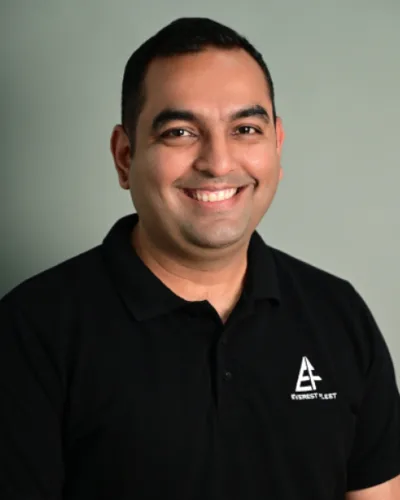
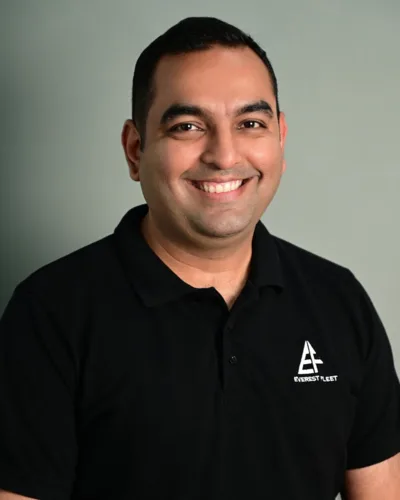
feat: plan hero figures stay on one line (11 Months* onwards, ₹35,000/m); Own Now drops Non-refundable; Sunny Sapra's photo
- Drive To Own: Ownership reads 11 Months* with a small "onwards", as the deposit does
- Drive To Earn: Earning Potential reads ₹35,000/m
- Hero figure boxes grow to fit their figure on desktop, so none wraps
- Own Now's tags no longer carry Non-refundable
- Saved content with the earlier wording takes the new one through the normalizer; CONTENT_VERSION 14
- Investors: Sunny Sapra's photo, and a sharper copy of Sidarth Vohra's

Claude-Session: https://claude.ai/code/session_016Z3Yd4DoL7w6UJZSQyKBwd

diff --git a/src/lib/content.ts b/src/lib/content.ts
@@ -233,7 +233,7 @@ export type SiteContent = {
 };
 
 /** Bump when SiteContent changes shape, so no deployment reads a cache written by an older one. */
-export const CONTENT_VERSION = "13";
+export const CONTENT_VERSION = "14";
 
 export const placeholder = (label: string, alt = ""): ImageSlot => ({ label, url: "", alt });
 
@@ -322,7 +322,7 @@ const PLAN_SEED: Plan[] = [
       heroImage: { label: "Own Now, hero photo", url: "/figma/own-hero.webp", alt: "Everest driver holding up the keys to his car" },
       heroImagePhone: { label: "Own Now, phone hero photo", url: "/figma/plans/hero-phone-own-now.webp", alt: "An Everest driver holding up the keys to his car" },
       term: { label: "Tenure", value: "12 Months" },
-      tags: ["Ownership plan", "Pay upfront", "Non-refundable"],
+      tags: ["Ownership plan", "Pay upfront"],
       whyTag: "Benefits of this plan",
       whyTitle: "Everything a driver needs, in one plan",
       whySubtitle: "",
@@ -380,7 +380,7 @@ const PLAN_SEED: Plan[] = [
       highlight: "a Low Deposit",
       heroImage: { label: "Drive to Own, hero photo", url: "/figma/hero-drive-to-own.webp", alt: "A hand holding out car keys in front of a row of Everest cars" },
       heroImagePhone: { label: "Drive to Own, phone hero photo", url: "/figma/plans/hero-phone-drive-to-own.webp", alt: "A hand holding out car keys beside a white car" },
-      term: { label: "Ownership", value: "11 Months onwards" },
+      term: { label: "Ownership", value: "11 Months* onwards" },
       tags: ["Ownership plan", "Low deposit", "Refundable"],
       whyTag: "Benefits of this plan",
       whyTitle: "Why Drivers Choose Drive To Own",
@@ -434,7 +434,7 @@ const PLAN_SEED: Plan[] = [
       highlight: "Owning Anything",
       heroImage: { label: "Drive to Earn, hero photo", url: "/figma/hero-drive-to-earn.webp", alt: "A driver sitting in the open door of his Everest car" },
       heroImagePhone: { label: "Drive to Earn, phone hero photo", url: "/figma/plans/hero-phone-drive-to-earn.webp", alt: "A driver sitting in the open door of his Everest car" },
-      term: { label: "Earning Potential", value: "₹35,000/month" },
+      term: { label: "Earning Potential", value: "₹35,000/m" },
       tags: ["Leasing plan", "Low deposit", "Refundable"],
       whyTag: "Benefits of this plan",
       whyTitle: "Why Drivers Choose Drive To Earn",

diff --git a/src/lib/content-schema.ts b/src/lib/content-schema.ts
@@ -175,9 +175,14 @@ function blankCar(id: string): Car {
 
 /** Hero figures the seed used to carry, keyed "label|value". Saved content still holds them, so each takes its new wording. */
 const RETERMED: Record<string, Row> = {
-  "Liability|Zero": { label: "Earning Potential", value: "₹35,000/month" },
-  "Ownership|24 Months": { label: "Ownership", value: "11 Months onwards" },
+  "Liability|Zero": { label: "Earning Potential", value: "₹35,000/m" },
+  "Earning Potential|₹35,000/month": { label: "Earning Potential", value: "₹35,000/m" },
+  "Ownership|24 Months": { label: "Ownership", value: "11 Months* onwards" },
+  "Ownership|11 Months onwards": { label: "Ownership", value: "11 Months* onwards" },
 };
+
+/** Hero tags the seed used to carry and the page no longer shows. */
+const DROPPED_TAGS = new Set(["Non-refundable"]);
 
 function term(v: unknown): Row {
   const t = obj(v);
@@ -195,7 +200,7 @@ function page(v: unknown, base: PlanPage): PlanPage {
     heroImage: image(o.heroImage, base.heroImage),
     heroImagePhone: image(o.heroImagePhone, base.heroImagePhone),
     term: "term" in o ? term(o.term) : { ...base.term },
-    tags: "tags" in o ? lines(o.tags, 4, 48) : [...base.tags],
+    tags: ("tags" in o ? lines(o.tags, 4, 48) : [...base.tags]).filter((t) => !DROPPED_TAGS.has(t)),
     whyTag: pick("whyTag", 40),
     whyTitle: pick("whyTitle", 90),
     whySubtitle: pick("whySubtitle", 120),

diff --git a/src/lib/plan-view.ts b/src/lib/plan-view.ts
@@ -111,8 +111,14 @@ export type PlanFigure = { label: string; value: string; suffix: string };
 
 /**
  * The upfront or the deposit, then the plan's own third figure. A figure the plan leaves blank is
- * left out rather than shown as zero.
+ * left out rather than shown as zero. A third figure ending "onwards" sets that word small after
+ * the value, as the deposit does, so it stays on one line.
  */
+function splitOnwards(value: string): { value: string; suffix: string } {
+  const m = /^(.*\S)\s+onwards$/i.exec(value);
+  return m ? { value: m[1], suffix: "onwards" } : { value, suffix: "" };
+}
+
 export function planFigures(plan: Plan): PlanFigure[] {
   const price = plan.price;
   const suffix = (plan.depositNote || "Onwards").toLowerCase();
@@ -121,7 +127,7 @@ export function planFigures(plan: Plan): PlanFigure[] {
     price.upfront
       ? { label: "Upfront", value: rupees(price.upfront), suffix }
       : { label: "Deposit", value: rupees(price.deposit), suffix },
-    { ...term, suffix: "" },
+    { label: term.label, ...splitOnwards(term.value) },
   ].filter((f) => f.label && f.value);
 }
 

diff --git a/src/components/plan/plan-hero.tsx b/src/components/plan/plan-hero.tsx
@@ -80,7 +80,7 @@ export function PlanHero({ view, startHref, wide }: { view: PlanPageView; startH
             {view.figures.map((f, i) => (
               <div
                 key={i}
-                className="min-w-0 flex-auto px-1.5 lg:h-[71px] lg:flex-none lg:w-[199px] lg:rounded-[10px] lg:border lg:border-white/30 lg:bg-white/10 lg:px-3 lg:py-2.5 lg:backdrop-blur-[2px]"
+                className="min-w-0 flex-auto px-1.5 lg:h-[71px] lg:flex-none lg:min-w-[199px] lg:whitespace-nowrap lg:rounded-[10px] lg:border lg:border-white/30 lg:bg-white/10 lg:px-3 lg:py-2.5 lg:backdrop-blur-[2px]"
               >
                 <dt className="text-[11px] font-semibold uppercase leading-4 tracking-[0.5px] text-white/85 lg:text-[13px] lg:font-medium lg:tracking-[1px]">
                   {f.label}

diff --git a/src/components/investors/data.ts b/src/components/investors/data.ts
@@ -135,7 +135,7 @@ export type TeamMember = { name: string; photo: string | null };
  */
 export const TEAM: TeamMember[] = [
   { name: "Siddharth Ladsariya", photo: "siddharth" },
-  { name: "Sunny Sapra", photo: null },
+  { name: "Sunny Sapra", photo: "sunny" },
   { name: "Apurav Mahajan", photo: "apurav" },
   { name: "Amar Kerkar", photo: "amar" },
   { name: "Sidarth Vohra", photo: "sidarth" },
